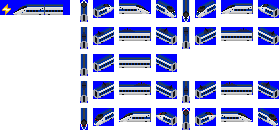
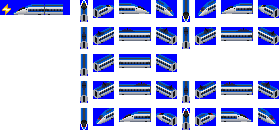
[update] 2022.3.16

diff --git a/docs/changelog.md b/docs/changelog.md
@@ -1,4 +1,15 @@
-2022.03.11 (최종 공개)<br>
+2022.03.16 (최종 공개)<br>
+[변경]
+- 준고속 속도매개변수 값 추가 : 181 ~ 260 (기본 181km/h)
+- 430km/h 고속열차 속도매개변수 값 추가 : 430 ~ 600 (기본 430km/h)
+- TAE 100 일반열차 매개변수 변경하도록 수정
+- 열차 그래픽 변경 N700 (#44 )
+- 열차 그래픽 변경 500계 (#45 )
+
+[제거]
+- TAE 100 도색내 TAE 200 삭제.
+
+2022.03.11<br>
 [추가]
 - 일반열차 속도매개변수 값 추가 : 150 ~ 181 (기본 150km/h)
 - 고속열차 속도매개변수 값 추가 : 300 ~ 379 (기본 331km/h)
